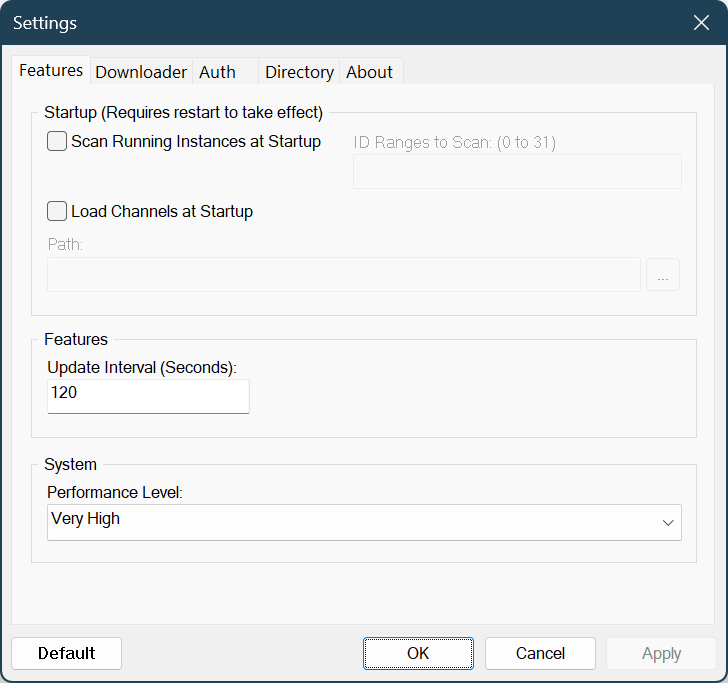
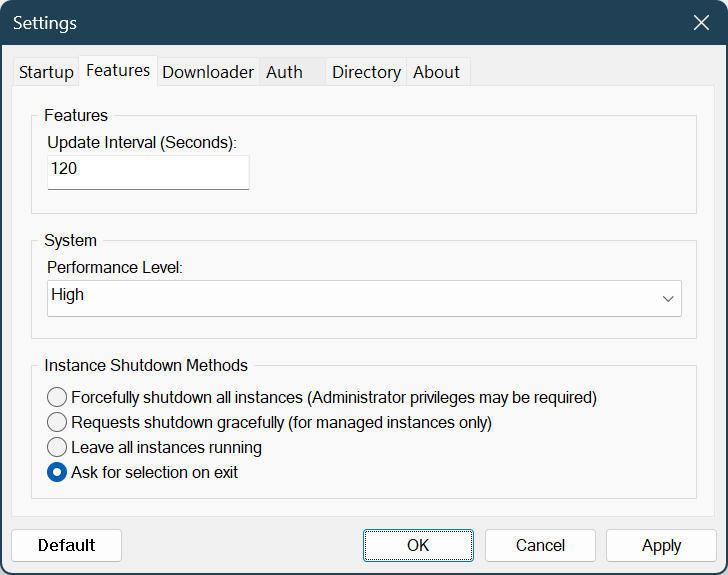
Version 0.90

diff --git a/samples/json_rpc_test.py b/samples/json_rpc_test.py
@@ -30,7 +30,7 @@ def send_request(host, port, request):
                         print(f"Error connecting to server: {e}")
                         return None
 
-            request_data = json.dumps(request) + '\n'
+            request_data = json.dumps(request)
 
             try:
                 client_socket.sendall(request_data.encode())
@@ -93,7 +93,7 @@ if __name__ == "__main__":
         while True:
             command = input('Command? ')
 
-            if command in ['get_version', 'get_settings', 'get_channel', 'get_channelex', 'get_status', 'get_statusex', 'get_live', 'get_video', 'get_clip', 'skip_current', 'quit_app']:
+            if command in ['get_allinfo', 'get_version', 'get_settings', 'get_channel', 'get_channelex', 'get_status', 'get_statusex', 'get_live', 'get_video', 'get_clip', 'skip_current', 'quit_app']:
                 request = {
                     "jsonrpc": "2.0",
                     "method": command,

diff --git a/doc/chzzk_launcher_manual.md b/doc/chzzk_launcher_manual.md
@@ -7,7 +7,7 @@ Graphical Launcher for Chzzk Live Downloader
 </div>
 
 ## Version
-Version 0.89, October 16, 2024 00:00:00
+Version 0.90, October 19, 2024 02:00:00
 
 ## Prerequisites
 Since Chzzk Launcher is the GUI frontend application for Chzzk Live Downloader, Chzzk Live Downloader must be installed as well.
@@ -157,7 +157,7 @@ To refresh the list immediately, click the ☰ icon, and choose `Refresh`.
 If you frequently manage a fixed set of channels, manually loading the list each time can become tedious. By enabling the following setting, the specified channel list will be automatically loaded at startup.
 
 * Click the ☰ icon, and choose `Settings...` to open the settings dialog box.
-* In the `Features` tab, check `Load Channels at Startup`. Then, click the **...** button next to the `Path:` field and select the channel list file you want to load.
+* In the `Startup` tab, check `Load channels at startup`. Then, click the **...** button next to the `Path:` field and select the channel list file you want to load.
 * From the next startup onward, the specified channel list will be automatically loaded.
 
 <div style='text-align: center'>
@@ -171,11 +171,11 @@ Since Chzzk Live Downloader can run independently without Chzzk Launcher, it may
 However, even in such cases, you can configure the following settings to automatically detect and add the running instance to the channel list for management at startup.
 
 <div style='text-align: center'>
-<img src='../img/screenshots/launcher_settings_initial_scan.png' />
+<img src='../img/screenshots/launcher_settings_scan_startup.png' />
 <p><i>(This image may not reflect the latest information.)</i></p>
 </div>
 
-* Check `Scan Running Instances at Startup` in the `Features` tab.
+* Check `Scan running instances at startup` in the `Startup` tab.
 * Set the range of IDs to scan in the `ID Ranges to Scan` field. The ID is the value specified with the `-i` or `--id` parameter when running Chzzk Live Downloader. For example, if it was run as shown below, specify `3` in the scan range.
 
 ```
@@ -240,6 +240,16 @@ You can preset this feature in the `Downloader` tab of the settings, instead of 
 
 ## Other Settings
 
+### Startup
+
+<div style='text-align: center'>
+<img src='../img/screenshots/launcher_settings_startup.png' />
+<p><i>(This image may not reflect the latest information.)</i></p>
+</div>
+
+* **Start Chzzk Launcher automatically when signing in to Windows** - Puts Chzzk Launcher into startup list of Windows.
+* **Check latest updates of Chzzk Launcher at startup** - Decides whether check latest updates of Chzzk Launcher at startup or not. Otherwise, Click `Check Updates` button to check updates manually.
+
 ### Features
 
 <div style='text-align: center'>
@@ -249,6 +259,7 @@ You can preset this feature in the `Downloader` tab of the settings, instead of 
 
 * **Update Interval (Seconds)** - Sets the screen refresh interval for the list. This only affects the display and is not related to the download detection interval. The download detection interval of Chzzk Live Downloader is set to 10 seconds by default and is designed to avoid being impacted by API rate limits, unlike other tools.
 * **Performance Level** - Specify the performance of the system where Chzzk Launcher is currently running. If you encounter errors due to timeouts when adding or refreshing channels, try lowering the performance level by one step and attempt again.
+* **Instance Shutdown Methods** - The Shutdown Method can be predefined, eliminating the need to select it each time in the Exit dialog.
 
 ### Downloader
 
@@ -259,7 +270,6 @@ You can preset this feature in the `Downloader` tab of the settings, instead of 
 
 * **JSON-RPC Server: Host Address** - Sets the host address of the JSON-RPC server.
 * **JSON-RPC Server: Port** - Sets the port number for the JSON-RPC server.
-* **Instance Shutdown Methods** - The Shutdown Method can be predefined, eliminating the need to select it each time in the Exit dialog.
 
 ### Directory
 

diff --git a/README.md b/README.md
@@ -4,11 +4,16 @@ Downloader for live streams, replay videos and clips of Chzzk.
 ## Downloads
 https://blog.choonholic.com/downloads
 
+<div style='text-align: center'>
+<img src='img/screenshots/screenshot_chzzklauncher.png' />
+<p><i>(This image may not reflect the latest information.)</i></p>
+</div>
+
 ## Chzzk Live Downloader
 Downloader for Chzzk live streams
 
 ## Version
-Version 0.89, October 16, 2024 00:00:00
+Version 0.90, October 19, 2024 02:00:00
 
 ### Prerequisites For Executables
 * **[Mandatory]** Latest version of ffmpeg binary. (ffmpeg 7.1 is recommended.)
@@ -69,7 +74,7 @@ ChzzkLiveDownloader -i 2 --thumb --detect 30 --work work --out out --temp temp
 Downloader for Chzzk replay videos
 
 ## Version
-Version 0.89, October 16, 2024 00:00:00
+Version 0.90, October 19, 2024 02:00:00
 
 ### Usage
 ```powershell
@@ -122,7 +127,7 @@ ChzzkVideoDownloader 1602969 --thumb --work work --out out --temp temp
 Downloader for Chzzk clips
 
 ## Version
-Version 0.89, October 16, 2024 00:00:00
+Version 0.90, October 19, 2024 02:00:00
 
 ### Usage
 ```powershell

diff --git a/doc/how_to_control_chzzk_clip_downloader.md b/doc/how_to_control_chzzk_clip_downloader.md
@@ -21,8 +21,6 @@ To request action from Chzzk Clip Downloader, send the object like below through
 }
 ```
 
-Each request must include a **Carriage Return (CR, `0x0D`)** character at the end.
-
 ### Method List
 * `get_version` – Retrieves the application version.
 * `get_settings` – Retrieves the application settings.

diff --git a/doc/how_to_control_chzzk_live_downloader.md b/doc/how_to_control_chzzk_live_downloader.md
@@ -23,8 +23,6 @@ To request action from Chzzk Live Downloader, send the object like below through
 }
 ```
 
-Each request must include a **Carriage Return (CR, `0x0D`)** character at the end.
-
 ### Method List
 * `get_version` – Retrieves the application version.
 * `get_settings` – Retrieves the application settings.

diff --git a/doc/how_to_control_chzzk_video_downloader.md b/doc/how_to_control_chzzk_video_downloader.md
@@ -21,8 +21,6 @@ To request action from Chzzk Video Downloader, send the object like below throug
 }
 ```
 
-Each request must include a **Carriage Return (CR, `0x0D`)** character at the end.
-
 ### Method List
 * `get_version` – Retrieves the application version.
 * `get_settings` – Retrieves the application settings.

diff --git a/doc/chzzk_live_downloader_manual.md b/doc/chzzk_live_downloader_manual.md
@@ -7,7 +7,7 @@ Downloader for Chzzk live streams
 </div>
 
 ## Version
-Version 0.89, October 16, 2024 00:00:00
+Version 0.90, October 19, 2024 02:00:00
 
 ## Prerequisites
 * **[Mandatory]** Latest version of ffmpeg binary. (ffmpeg 7.1 is recommended.)

diff --git a/doc/chzzk_video_downloader_manual.md b/doc/chzzk_video_downloader_manual.md
@@ -7,7 +7,7 @@ Downloader for Chzzk replay videos
 </div>
 
 ## Version
-Version 0.89, October 16, 2024 00:00:00
+Version 0.90, October 19, 2024 02:00:00
 
 ## Usage
 ```powershell

diff --git a/doc/chzzk_clip_downloader_manual.md b/doc/chzzk_clip_downloader_manual.md
@@ -7,7 +7,7 @@ Downloader for Chzzk clips
 </div>
 
 ## Version
-Version 0.89, October 16, 2024 00:00:00
+Version 0.90, October 19, 2024 02:00:00
 
 ## Usage
 ```powershell
